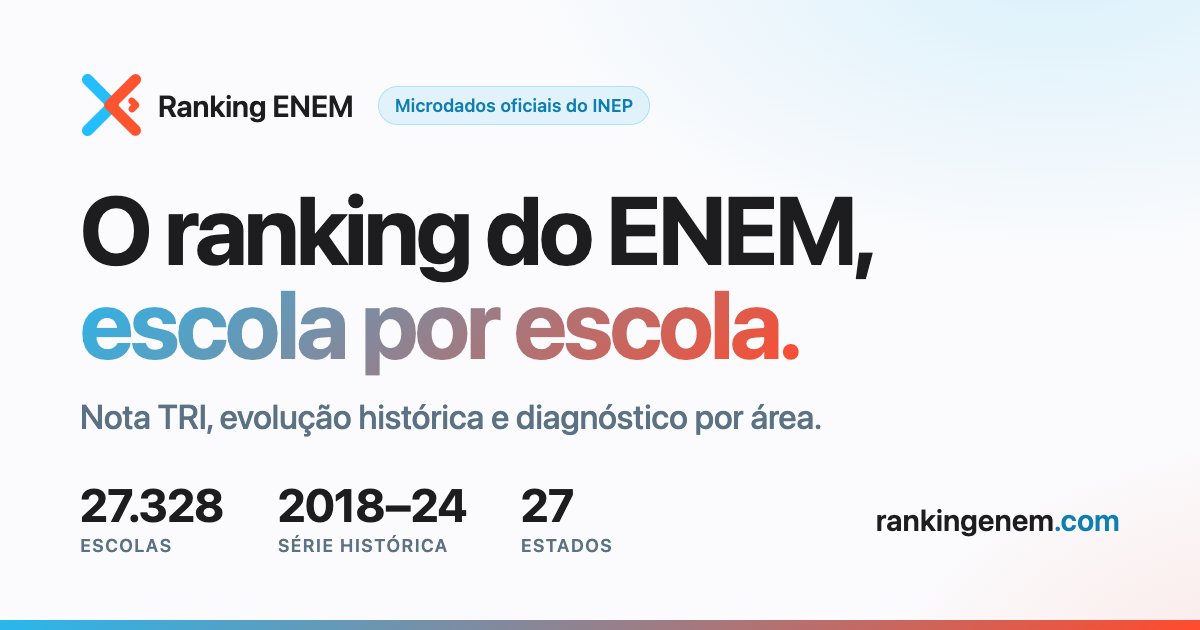
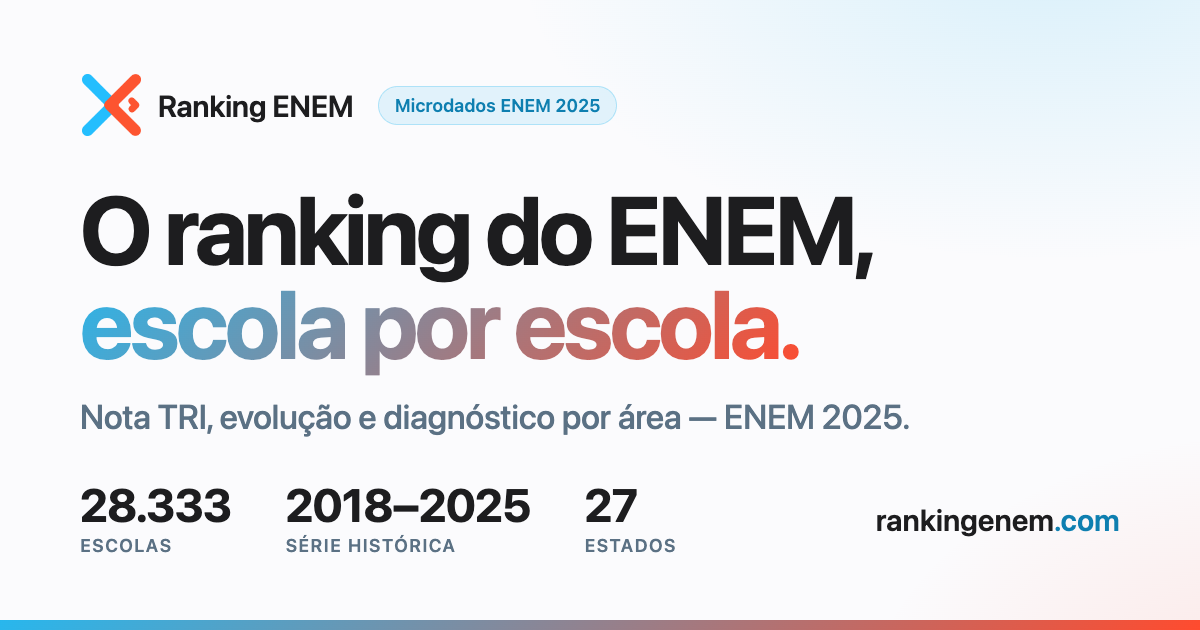
feat(landing): atualiza apex rankingenem.com para ENEM 2025 + SEO
- ranking top-10 2025 (ARI de Sa - Mario Mamede #1, 801,3); stats 28.333 / 2018-2025
- SEO foco "microdados ENEM 2025": title, meta, keywords, OG/Twitter
- JSON-LD: novo Dataset "Microdados ENEM 2025" + ItemList 2025 + FAQPage 2025
- og.png (card social) regenerado para 2025
- deployado via scp na Hostinger; backup do 2024 preservado no servidor

Changed region(s): [[0.0925, 0.754, 0.5858, 0.8746], [0.3083, 0.6333, 0.7708, 0.6937], [0.4008, 0.1206, 0.555, 0.2111]]

diff --git a/enem-analytics/landing/index.html b/enem-analytics/landing/index.html
@@ -6,9 +6,9 @@
 <meta name="google-site-verification" content="ztQkW_yVcngFnFhc8HL2U48A3r0L3lXlnTxEWMeKEzo" />
 
 <!-- ───────── SEO ───────── -->
-<title>Portal dos Microdados ENEM — Ranking, Nota TRI e Diagnóstico por Escola | XTRI</title>
-<meta name="description" content="Portal dos Microdados ENEM: ranking do ENEM por escola com nota TRI, evolução histórica e diagnóstico por área, a partir dos microdados oficiais do INEP. 27.328 escolas. Gratuito." />
-<meta name="keywords" content="portal dos microdados enem, microdados enem, microdados inep, ranking enem, ranking enem 2024, nota tri, desempenho escola enem, melhores escolas enem" />
+<title>Microdados ENEM 2025: Ranking das Escolas por Nota TRI | XTRI</title>
+<meta name="description" content="Microdados do ENEM 2025: ranking das escolas por nota TRI, evolução histórica e diagnóstico por área, a partir dos dados oficiais do INEP. 28.333 escolas, série 2018–2025. Gratuito." />
+<meta name="keywords" content="microdados enem 2025, microdados 2025, microdados enem, ranking enem 2025, microdados inep, ranking enem, nota tri, melhores escolas enem 2025, desempenho escola enem" />
 <link rel="canonical" href="https://rankingenem.com/" />
 <link rel="icon" type="image/png" href="/logo-x.png" />
 <link rel="apple-touch-icon" href="/logo-x.png" />
@@ -18,14 +18,14 @@
 <!-- Open Graph / Twitter -->
 <meta property="og:type" content="website" />
 <meta property="og:locale" content="pt_BR" />
-<meta property="og:site_name" content="Portal dos Microdados ENEM" />
-<meta property="og:title" content="Portal dos Microdados ENEM — Ranking e Nota TRI por Escola" />
-<meta property="og:description" content="O portal dos microdados do ENEM: ranking por escola, nota TRI e diagnóstico, a partir dos dados oficiais do INEP. 27.328 escolas. Gratuito." />
+<meta property="og:site_name" content="Microdados ENEM 2025 — XTRI" />
+<meta property="og:title" content="Microdados ENEM 2025 — Ranking das Escolas por Nota TRI" />
+<meta property="og:description" content="O ranking do ENEM 2025 por escola, com nota TRI e diagnóstico, a partir dos microdados oficiais do INEP. 28.333 escolas. Gratuito." />
 <meta property="og:url" content="https://rankingenem.com/" />
 <meta property="og:image" content="https://rankingenem.com/og.png" />
 <meta name="twitter:card" content="summary_large_image" />
-<meta name="twitter:title" content="Portal dos Microdados ENEM | XTRI" />
-<meta name="twitter:description" content="Ranking por escola, nota TRI e diagnóstico — a partir dos microdados oficiais do INEP." />
+<meta name="twitter:title" content="Microdados ENEM 2025 — Ranking das Escolas | XTRI" />
+<meta name="twitter:description" content="Ranking do ENEM 2025 por escola, nota TRI e diagnóstico — dos microdados oficiais do INEP." />
 <meta name="twitter:image" content="https://rankingenem.com/og.png" />
 
 <!-- Dados estruturados (Schema.org) -->
@@ -58,27 +58,39 @@
       }
     },
     {
+      "@type": "Dataset",
+      "name": "Microdados ENEM 2025 por escola",
+      "description": "Ranking e médias por escola no ENEM 2025 (nota TRI por área), derivado dos microdados oficiais do INEP/MEC. 28.333 escolas, série 2018–2025.",
+      "keywords": ["microdados ENEM 2025","ranking ENEM 2025","nota TRI","INEP","desempenho escolar"],
+      "temporalCoverage": "2018/2025",
+      "isAccessibleForFree": true,
+      "spatialCoverage": {"@type":"Place","name":"Brasil"},
+      "creator": {"@type":"GovernmentOrganization","name":"INEP/MEC"},
+      "publisher": {"@type":"Organization","name":"XTRI"},
+      "url": "https://rankingenem.com/"
+    },
+    {
       "@type": "ItemList",
-      "name": "Melhores médias do ENEM 2024 por escola",
-      "description": "Ranking das escolas com maior nota TRI no ENEM 2024, segundo os microdados oficiais do INEP.",
+      "name": "Melhores médias do ENEM 2025 por escola",
+      "description": "Ranking das escolas com maior nota TRI no ENEM 2025, segundo os microdados oficiais do INEP.",
       "itemListOrder": "https://schema.org/ItemListOrderDescending",
       "itemListElement": [
-        {"@type":"ListItem","position":1,"name":"Farias Brito Colégio de Aplicação (CE) — 789,9"},
-        {"@type":"ListItem","position":2,"name":"Christus Colégio Pré-Universitário (CE) — 762,5"},
-        {"@type":"ListItem","position":3,"name":"Colégio Classe A (MS) — 761,8"},
-        {"@type":"ListItem","position":4,"name":"Ari de Sá Cavalcante - Major Facundo (CE) — 760,1"},
-        {"@type":"ListItem","position":5,"name":"Farias Brito Pré-Vestibular Central (CE) — 759,7"},
-        {"@type":"ListItem","position":6,"name":"Colégio Alfa Cem Bilíngue (RJ) — 759,6"},
-        {"@type":"ListItem","position":7,"name":"Coleguium - Unidade Ouro Preto Integral (MG) — 759,3"},
-        {"@type":"ListItem","position":8,"name":"Ari de Sá Cavalcante - Mário Mamede (CE) — 755,1"},
-        {"@type":"ListItem","position":9,"name":"Instituto Educacional São José (PI) — 749,7"},
-        {"@type":"ListItem","position":10,"name":"Colégio Santo Antônio (MG) — 749,5"}
+        {"@type":"ListItem","position":1,"name":"Ari de Sá Cavalcante - Mário Mamede (CE) — 801,3"},
+        {"@type":"ListItem","position":2,"name":"Farias Brito Colégio de Aplicação (CE) — 793,3"},
+        {"@type":"ListItem","position":3,"name":"Christus Colégio Pré-Universitário (CE) — 779,3"},
+        {"@type":"ListItem","position":4,"name":"Instituto Educacional São José (PI) — 773,8"},
+        {"@type":"ListItem","position":5,"name":"Ari de Sá Cavalcante - Major Facundo (CE) — 765,7"},
+        {"@type":"ListItem","position":6,"name":"Objetivo Colégio Integrado (SP) — 763,9"},
+        {"@type":"ListItem","position":7,"name":"Etapa III Colégio (SP) — 762,3"},
+        {"@type":"ListItem","position":8,"name":"Equipe Sistema de Ensino Integrado (PA) — 760,2"},
+        {"@type":"ListItem","position":9,"name":"Colégio Alfa Cem Bilíngue (RJ) — 759,3"},
+        {"@type":"ListItem","position":10,"name":"Colégio e Curso Pensi (RJ) — 758,9"}
       ]
     },
     {
       "@type": "FAQPage",
       "mainEntity": [
-        {"@type":"Question","name":"De onde vêm os dados do ranking?","acceptedAnswer":{"@type":"Answer","text":"Dos microdados oficiais do ENEM, publicados pelo Inep/MEC. Agregamos os resultados por escola (série 2018–2024) usando a nota TRI."}},
+        {"@type":"Question","name":"De onde vêm os dados do ranking do ENEM 2025?","acceptedAnswer":{"@type":"Answer","text":"Dos microdados oficiais do ENEM, publicados pelo Inep/MEC. Agregamos os resultados por escola (série 2018–2025, já com o ENEM 2025) usando a nota TRI."}},
         {"@type":"Question","name":"O que é a nota TRI?","acceptedAnswer":{"@type":"Answer","text":"TRI (Teoria de Resposta ao Item) é o método de correção do ENEM. A nota não é proporcional ao número de acertos: o padrão de respostas importa. Por isso usamos a TRI como critério do ranking."}},
         {"@type":"Question","name":"É gratuito ver o desempenho da minha escola?","acceptedAnswer":{"@type":"Answer","text":"Sim. O ranking é público e a análise completa da sua escola é gratuita após um cadastro rápido."}},
         {"@type":"Question","name":"Como vejo a posição da minha escola no ENEM?","acceptedAnswer":{"@type":"Answer","text":"Busque o nome da sua escola, faça o cadastro gratuito e acesse na hora o ranking, a evolução por TRI e o diagnóstico por área."}}
@@ -226,9 +238,9 @@
 </nav>
 
 <header class="hero wrap">
-  <p class="eyebrow">Portal dos Microdados ENEM</p>
-  <h1>O ranking do ENEM, <span class="accent">escola por escola.</span></h1>
-  <p class="sub">Nota TRI, evolução histórica e diagnóstico por área — de 27.328 escolas. Gratuito para a sua.</p>
+  <p class="eyebrow">Microdados ENEM 2025</p>
+  <h1>O ranking do ENEM 2025, <span class="accent">escola por escola.</span></h1>
+  <p class="sub">Nota TRI, evolução histórica e diagnóstico por área — de 28.333 escolas, já com os resultados do ENEM 2025. Gratuito para a sua.</p>
 
   <form class="search" id="cta" action="https://app.rankingenem.com/cadastro" method="get">
     <svg width="20" height="20" viewBox="0 0 24 24" fill="none" stroke="currentColor" stroke-width="2" stroke-linecap="round" stroke-linejoin="round"><circle cx="11" cy="11" r="7"/><path d="m21 21-4.3-4.3"/></svg>
@@ -238,30 +250,30 @@
   <p class="hint">Gratuito · sem cartão. <a href="https://app.rankingenem.com/">Só quero ver o ranking →</a></p>
 
   <div class="stats">
-    <div><div class="n">27.328</div><div class="l">escolas analisadas</div></div>
-    <div><div class="n">2018–24</div><div class="l">série histórica</div></div>
+    <div><div class="n">28.333</div><div class="l">escolas analisadas</div></div>
+    <div><div class="n">2018–2025</div><div class="l">série histórica</div></div>
     <div><div class="n">27</div><div class="l">estados (UFs)</div></div>
     <div><div class="n">TRI</div><div class="l">critério oficial</div></div>
   </div>
 </header>
 
 <section class="block wrap" id="ranking">
-  <p class="kicker">ENEM 2024</p>
-  <h2>As escolas com as melhores médias</h2>
-  <p class="lead2">Maiores notas TRI do país no ENEM 2024, segundo os microdados oficiais do INEP.</p>
+  <p class="kicker">ENEM 2025</p>
+  <h2>As melhores escolas do ENEM 2025</h2>
+  <p class="lead2">Maiores notas TRI do país no ENEM 2025, segundo os microdados oficiais do INEP.</p>
 
   <div class="rank">
-    <a class="row" href="https://app.rankingenem.com/schools/23246847"><span class="pos m1">1º</span><span class="rname"><b>FARIAS BRITO COLÉGIO DE APLICAÇÃO</b><span>Fortaleza · CE · Privada</span></span><span class="rscore">789,9</span></a>
-    <a class="row" href="https://app.rankingenem.com/"><span class="pos m2">2º</span><span class="rname"><b>CHRISTUS COLÉGIO PRÉ-UNIVERSITÁRIO</b><span>CE · Privada</span></span><span class="rscore">762,5</span></a>
-    <a class="row" href="https://app.rankingenem.com/"><span class="pos m3">3º</span><span class="rname"><b>COLÉGIO CLASSE A</b><span>MS · Privada</span></span><span class="rscore">761,8</span></a>
-    <a class="row" href="https://app.rankingenem.com/"><span class="pos">4º</span><span class="rname"><b>ARI DE SÁ CAVALCANTE — MAJOR FACUNDO</b><span>CE · Privada</span></span><span class="rscore">760,1</span></a>
-    <a class="row" href="https://app.rankingenem.com/"><span class="pos">5º</span><span class="rname"><b>FARIAS BRITO PRÉ-VESTIBULAR CENTRAL</b><span>CE · Privada</span></span><span class="rscore">759,7</span></a>
-    <a class="row" href="https://app.rankingenem.com/"><span class="pos">6º</span><span class="rname"><b>COLÉGIO ALFA CEM BILÍNGUE</b><span>RJ · Privada</span></span><span class="rscore">759,6</span></a>
-    <a class="row" href="https://app.rankingenem.com/"><span class="pos">7º</span><span class="rname"><b>COLEGUIUM — OURO PRETO INTEGRAL</b><span>MG · Privada</span></span><span class="rscore">759,3</span></a>
-    <a class="row" href="https://app.rankingenem.com/"><span class="pos">8º</span><span class="rname"><b>ARI DE SÁ CAVALCANTE — MÁRIO MAMEDE</b><span>CE · Privada</span></span><span class="rscore">755,1</span></a>
-    <a class="row" href="https://app.rankingenem.com/"><span class="pos">9º</span><span class="rname"><b>INSTITUTO EDUCACIONAL SÃO JOSÉ</b><span>PI · Privada</span></span><span class="rscore">749,7</span></a>
-    <a class="row" href="https://app.rankingenem.com/"><span class="pos">10º</span><span class="rname"><b>COLÉGIO SANTO ANTÔNIO</b><span>MG · Privada</span></span><span class="rscore">749,5</span></a>
-    <a class="more" href="https://app.rankingenem.com/">Ver o ranking completo (27.328 escolas) →</a>
+    <a class="row" href="https://app.rankingenem.com/schools/23246871"><span class="pos m1">1º</span><span class="rname"><b>ARI DE SÁ CAVALCANTE — MÁRIO MAMEDE</b><span>Fortaleza · CE · Privada</span></span><span class="rscore">801,3</span></a>
+    <a class="row" href="https://app.rankingenem.com/schools/23246847"><span class="pos m2">2º</span><span class="rname"><b>FARIAS BRITO COLÉGIO DE APLICAÇÃO</b><span>Fortaleza · CE · Privada</span></span><span class="rscore">793,3</span></a>
+    <a class="row" href="https://app.rankingenem.com/schools/23246880"><span class="pos m3">3º</span><span class="rname"><b>CHRISTUS COLÉGIO PRÉ-UNIVERSITÁRIO</b><span>Fortaleza · CE · Privada</span></span><span class="rscore">779,3</span></a>
+    <a class="row" href="https://app.rankingenem.com/"><span class="pos">4º</span><span class="rname"><b>INSTITUTO EDUCACIONAL SÃO JOSÉ</b><span>Teresina · PI · Privada</span></span><span class="rscore">773,8</span></a>
+    <a class="row" href="https://app.rankingenem.com/"><span class="pos">5º</span><span class="rname"><b>ARI DE SÁ CAVALCANTE — MAJOR FACUNDO</b><span>Fortaleza · CE · Privada</span></span><span class="rscore">765,7</span></a>
+    <a class="row" href="https://app.rankingenem.com/"><span class="pos">6º</span><span class="rname"><b>OBJETIVO COLÉGIO INTEGRADO</b><span>São Paulo · SP · Privada</span></span><span class="rscore">763,9</span></a>
+    <a class="row" href="https://app.rankingenem.com/"><span class="pos">7º</span><span class="rname"><b>ETAPA III COLÉGIO</b><span>São Paulo · SP · Privada</span></span><span class="rscore">762,3</span></a>
+    <a class="row" href="https://app.rankingenem.com/"><span class="pos">8º</span><span class="rname"><b>EQUIPE — SISTEMA DE ENSINO INTEGRADO</b><span>Belém · PA · Privada</span></span><span class="rscore">760,2</span></a>
+    <a class="row" href="https://app.rankingenem.com/"><span class="pos">9º</span><span class="rname"><b>COLÉGIO ALFA CEM BILÍNGUE</b><span>Rio de Janeiro · RJ · Privada</span></span><span class="rscore">759,3</span></a>
+    <a class="row" href="https://app.rankingenem.com/"><span class="pos">10º</span><span class="rname"><b>COLÉGIO E CURSO PENSI</b><span>Niterói · RJ · Privada</span></span><span class="rscore">758,9</span></a>
+    <a class="more" href="https://app.rankingenem.com/">Ver o ranking completo (28.333 escolas) →</a>
   </div>
 </section>
 
@@ -269,8 +281,8 @@
   <p class="kicker">Simples assim</p>
   <h2>Da busca ao plano de ação</h2>
   <div class="steps">
-    <div class="step"><div class="ic">🔎</div><h3>1. Encontre sua escola</h3><p>Busque pelo nome. São 27.328 escolas da base oficial do INEP.</p></div>
-    <div class="step"><div class="ic">📈</div><h3>2. Veja posição e evolução</h3><p>Ranking nacional, nota TRI por área e a série histórica 2018–2024.</p></div>
+    <div class="step"><div class="ic">🔎</div><h3>1. Encontre sua escola</h3><p>Busque pelo nome. São 28.333 escolas da base oficial do INEP.</p></div>
+    <div class="step"><div class="ic">📈</div><h3>2. Veja posição e evolução</h3><p>Ranking nacional, nota TRI por área e a série histórica 2018–2025.</p></div>
     <div class="step"><div class="ic">🎯</div><h3>3. Receba o diagnóstico</h3><p>Pontos fortes, lacunas e recomendações do Oráculo IA — para agir.</p></div>
   </div>
 </section>
@@ -308,7 +320,7 @@
   <p class="kicker">Dúvidas</p>
   <h2>Perguntas frequentes</h2>
   <div class="faq">
-    <details open><summary>De onde vêm os dados do ranking?</summary><p>Dos microdados oficiais do ENEM, publicados pelo Inep/MEC. Agregamos os resultados por escola (série 2018–2024) usando a nota TRI.</p></details>
+    <details open><summary>De onde vêm os dados do ranking do ENEM 2025?</summary><p>Dos microdados oficiais do ENEM, publicados pelo Inep/MEC. Agregamos os resultados por escola (série 2018–2025, já com o ENEM 2025) usando a nota TRI.</p></details>
     <details><summary>O que é a nota TRI?</summary><p>TRI (Teoria de Resposta ao Item) é o método de correção do ENEM. A nota não é proporcional ao número de acertos — o padrão de respostas importa. Por isso usamos a TRI como critério do ranking.</p></details>
     <details><summary>É gratuito ver o desempenho da minha escola?</summary><p>Sim. O ranking é público e a análise completa da sua escola é gratuita após um cadastro rápido.</p></details>
     <details><summary>Como vejo a posição da minha escola?</summary><p>Busque o nome da sua escola acima, faça o cadastro gratuito e acesse na hora o ranking, a evolução por TRI e o diagnóstico por área.</p></details>

diff --git a/enem-analytics/landing/og-card.html b/enem-analytics/landing/og-card.html
@@ -48,18 +48,18 @@
   <header class="brand">
     <img src="/logo-x.png" alt="XTRI" />
     <b>Ranking ENEM</b>
-    <span class="badge">Microdados oficiais do INEP</span>
+    <span class="badge">Microdados ENEM 2025</span>
   </header>
 
   <div>
     <h1>O ranking do ENEM,<br /><span class="accent">escola por escola.</span></h1>
-    <p class="sub">Nota TRI, evolução histórica e diagnóstico por área.</p>
+    <p class="sub">Nota TRI, evolução e diagnóstico por área — ENEM 2025.</p>
   </div>
 
   <footer class="foot">
     <div class="stats">
-      <div class="stat"><div class="n">27.328</div><div class="l">escolas</div></div>
-      <div class="stat"><div class="n">2018–24</div><div class="l">série histórica</div></div>
+      <div class="stat"><div class="n">28.333</div><div class="l">escolas</div></div>
+      <div class="stat"><div class="n">2018–2025</div><div class="l">série histórica</div></div>
       <div class="stat"><div class="n">27</div><div class="l">estados</div></div>
     </div>
     <div class="url">rankingenem<span>.com</span></div>
